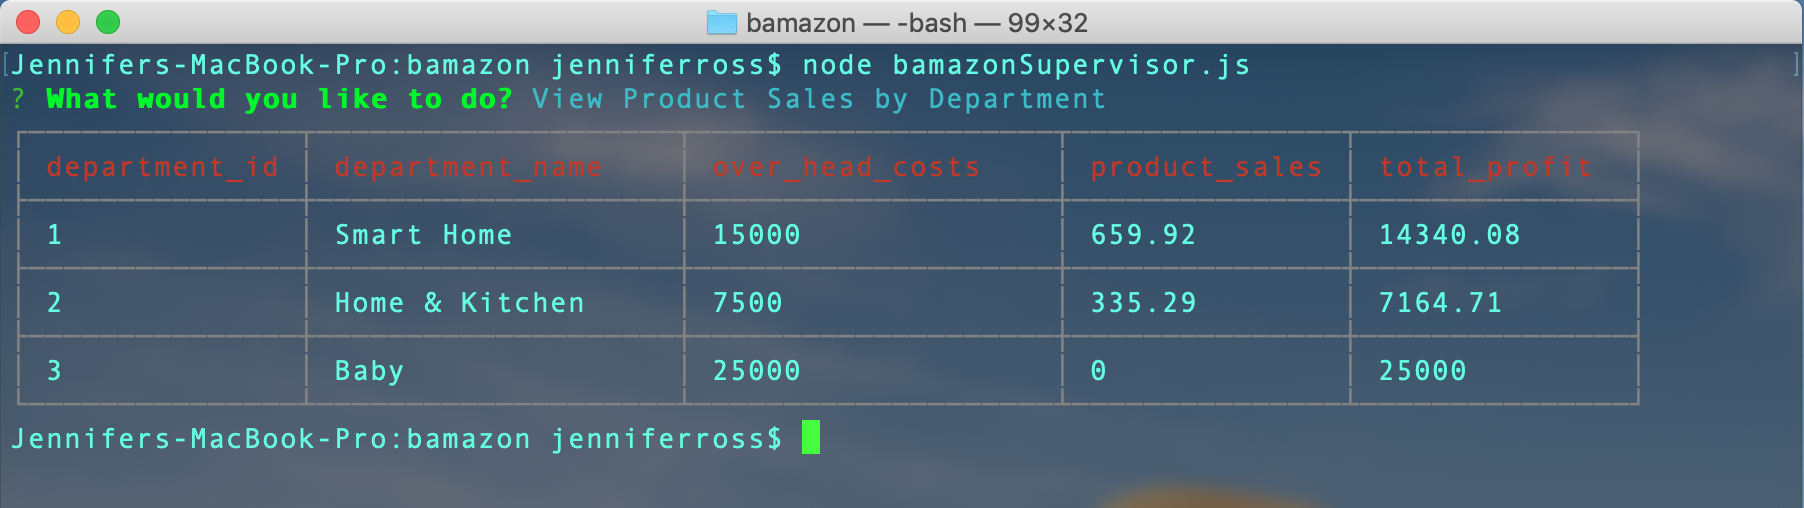
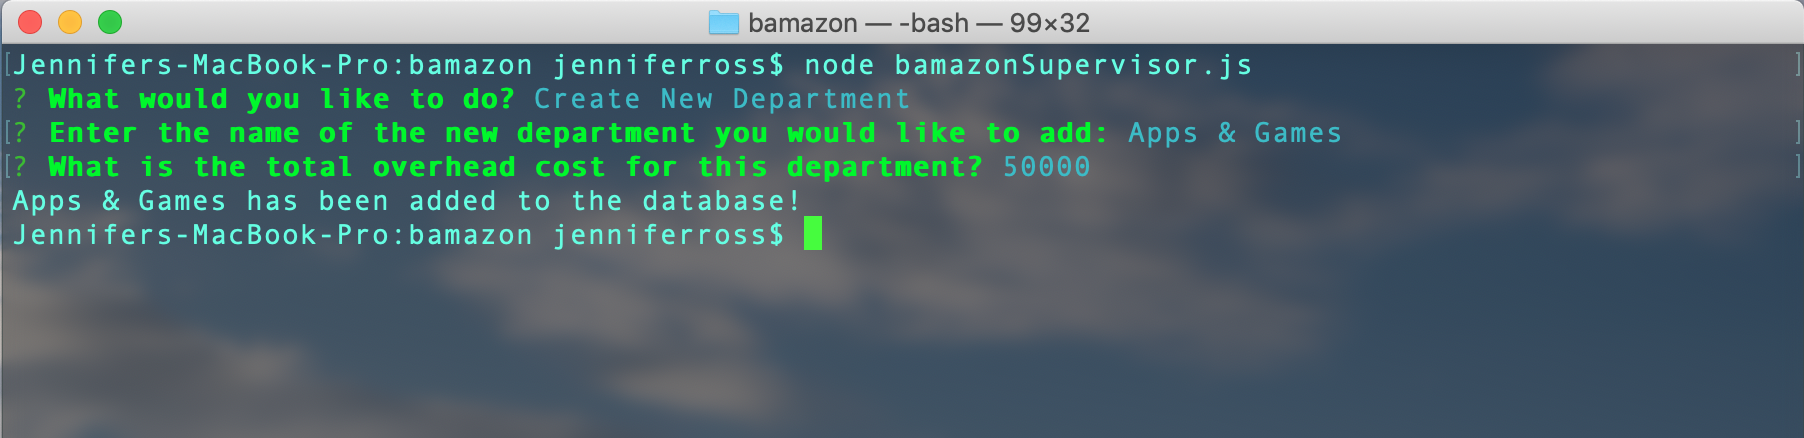
updated images for readme; changed supervisor query to accurately calculate total profits

diff --git a/bamazonSupervisor.js b/bamazonSupervisor.js
@@ -1,3 +1,4 @@
+/* eslint-disable */
 const mysql = require("mysql");
 const inquirer = require("inquirer");
 const Table = require('cli-table');
@@ -53,7 +54,7 @@ function menuOptions() {
   }
 
 function viewProductSales() {
-    let query = "SELECT departments.department_id, departments.department_name, departments.over_head_costs, SUM(products.product_sales) AS product_sales, (departments.over_head_costs - SUM(products.product_sales)) AS total_profit " 
+    let query = "SELECT departments.department_id, departments.department_name, departments.over_head_costs, SUM(products.product_sales) AS product_sales, (SUM(products.product_sales) - departments.over_head_costs) AS total_profit " 
     query += "FROM bamazon_db.departments "
     query += "INNER JOIN products ON departments.department_name = products.department_name "
     query += "GROUP BY department_id";

diff --git a/README.md b/README.md
@@ -1,1 +1,2 @@
-# bamazon
+# Bamazon
+
